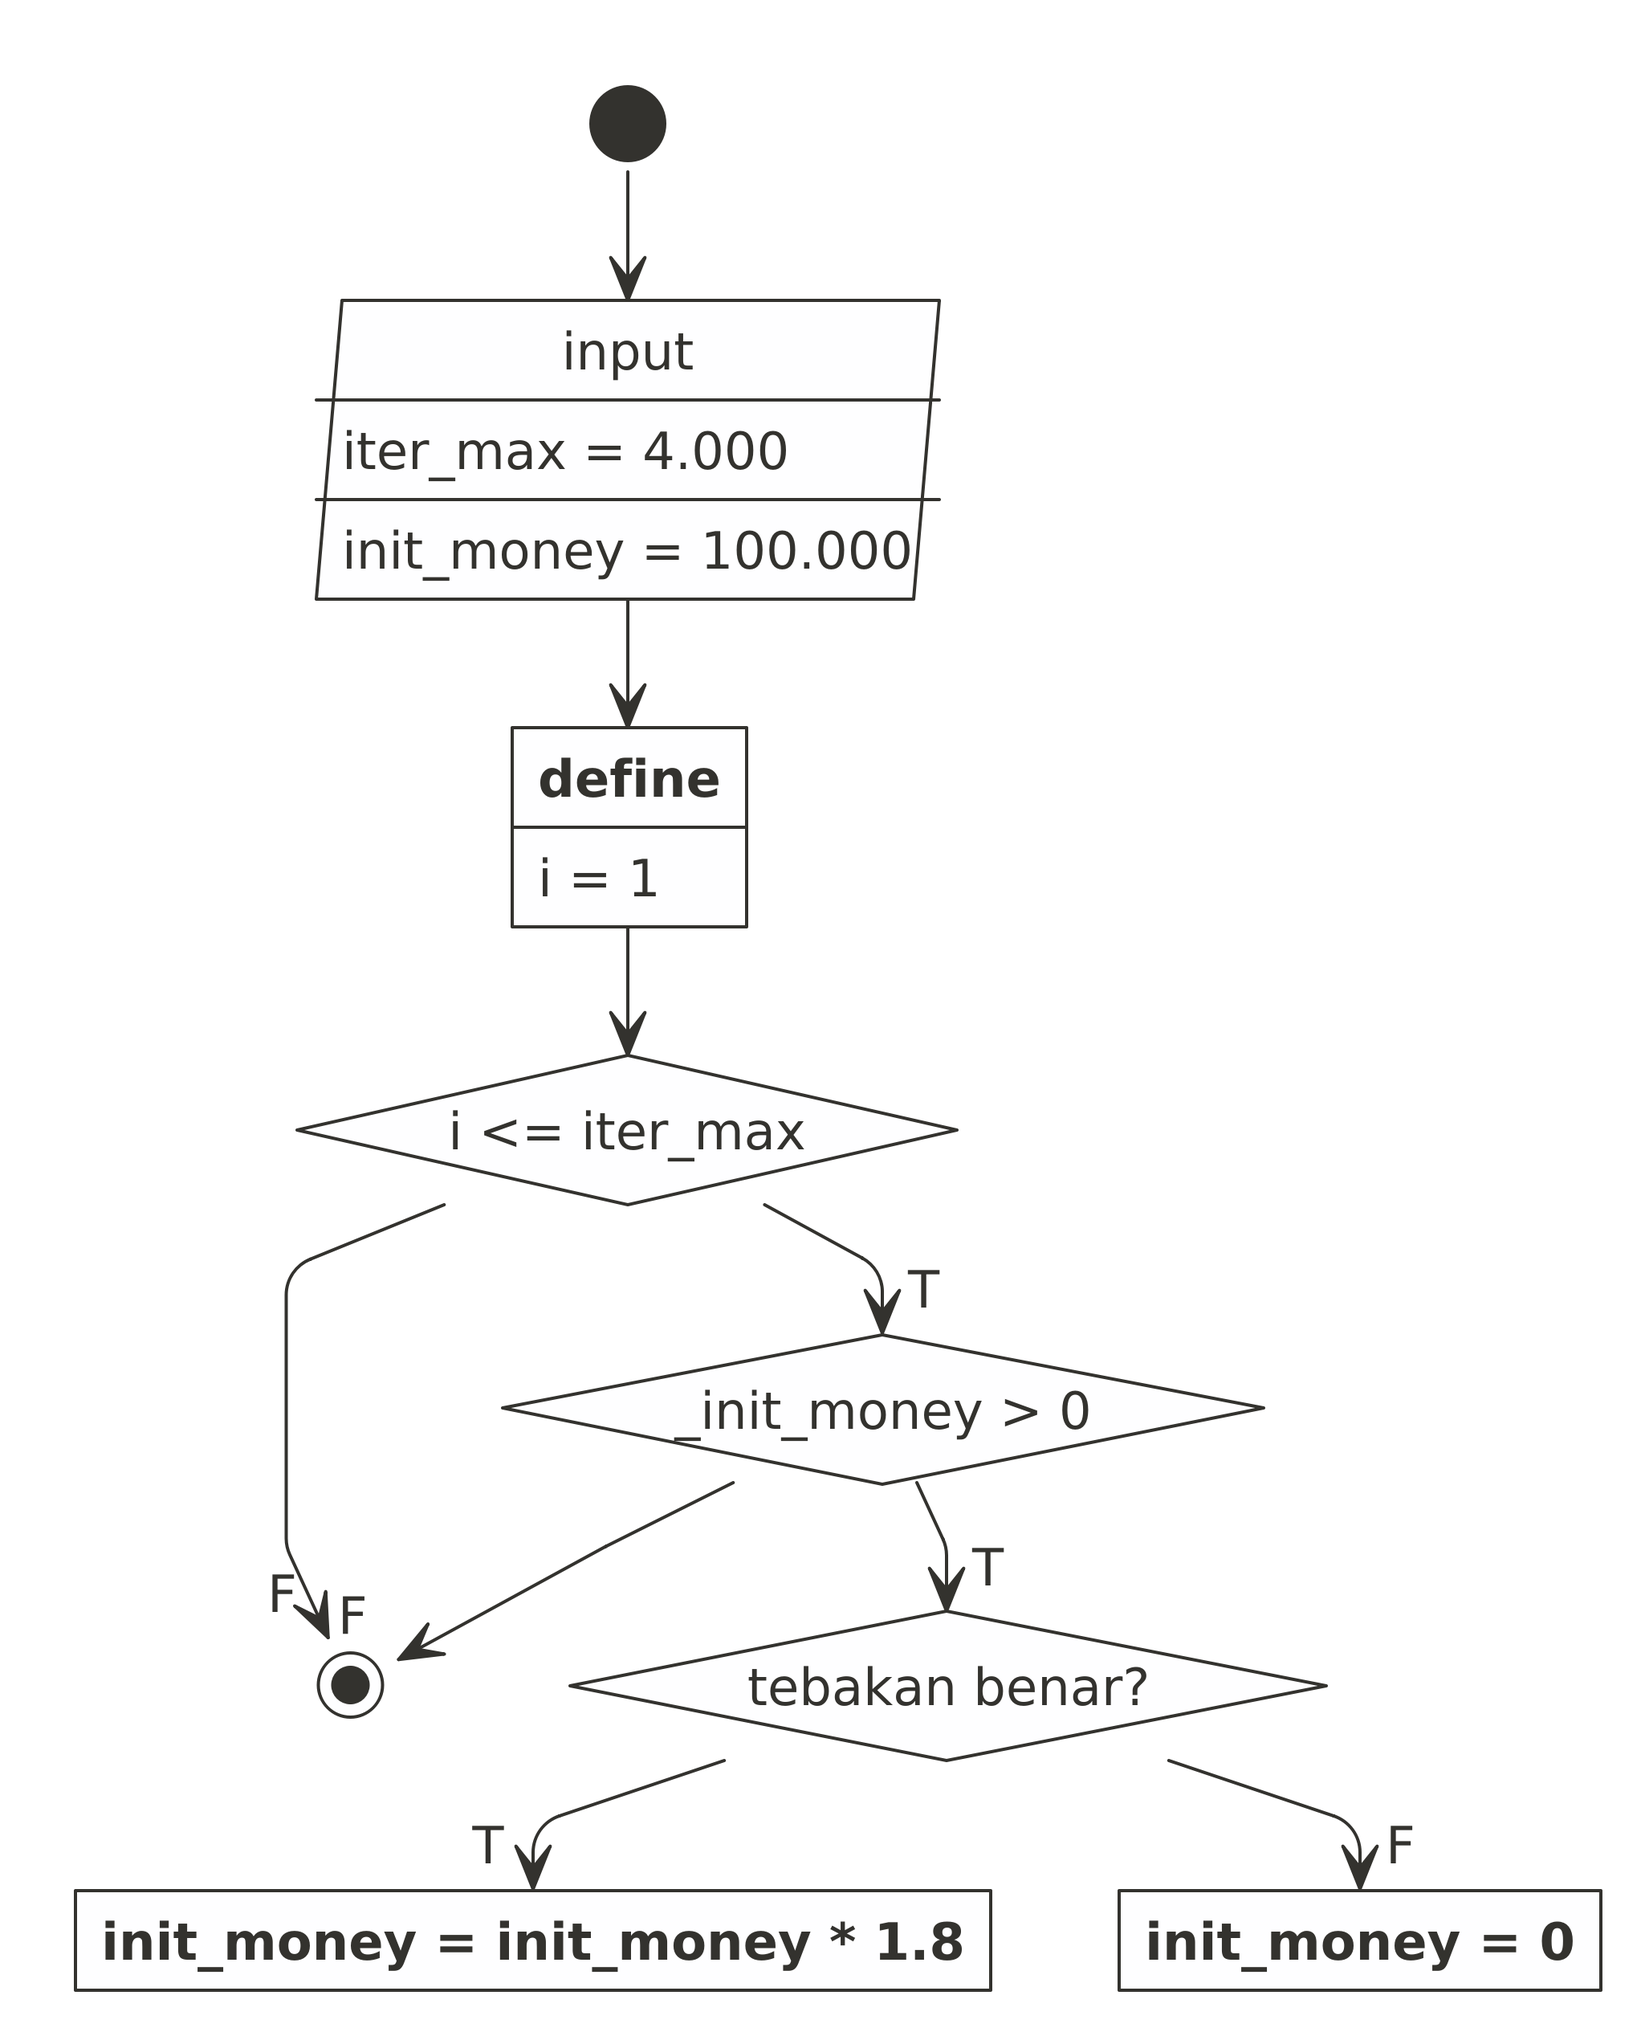
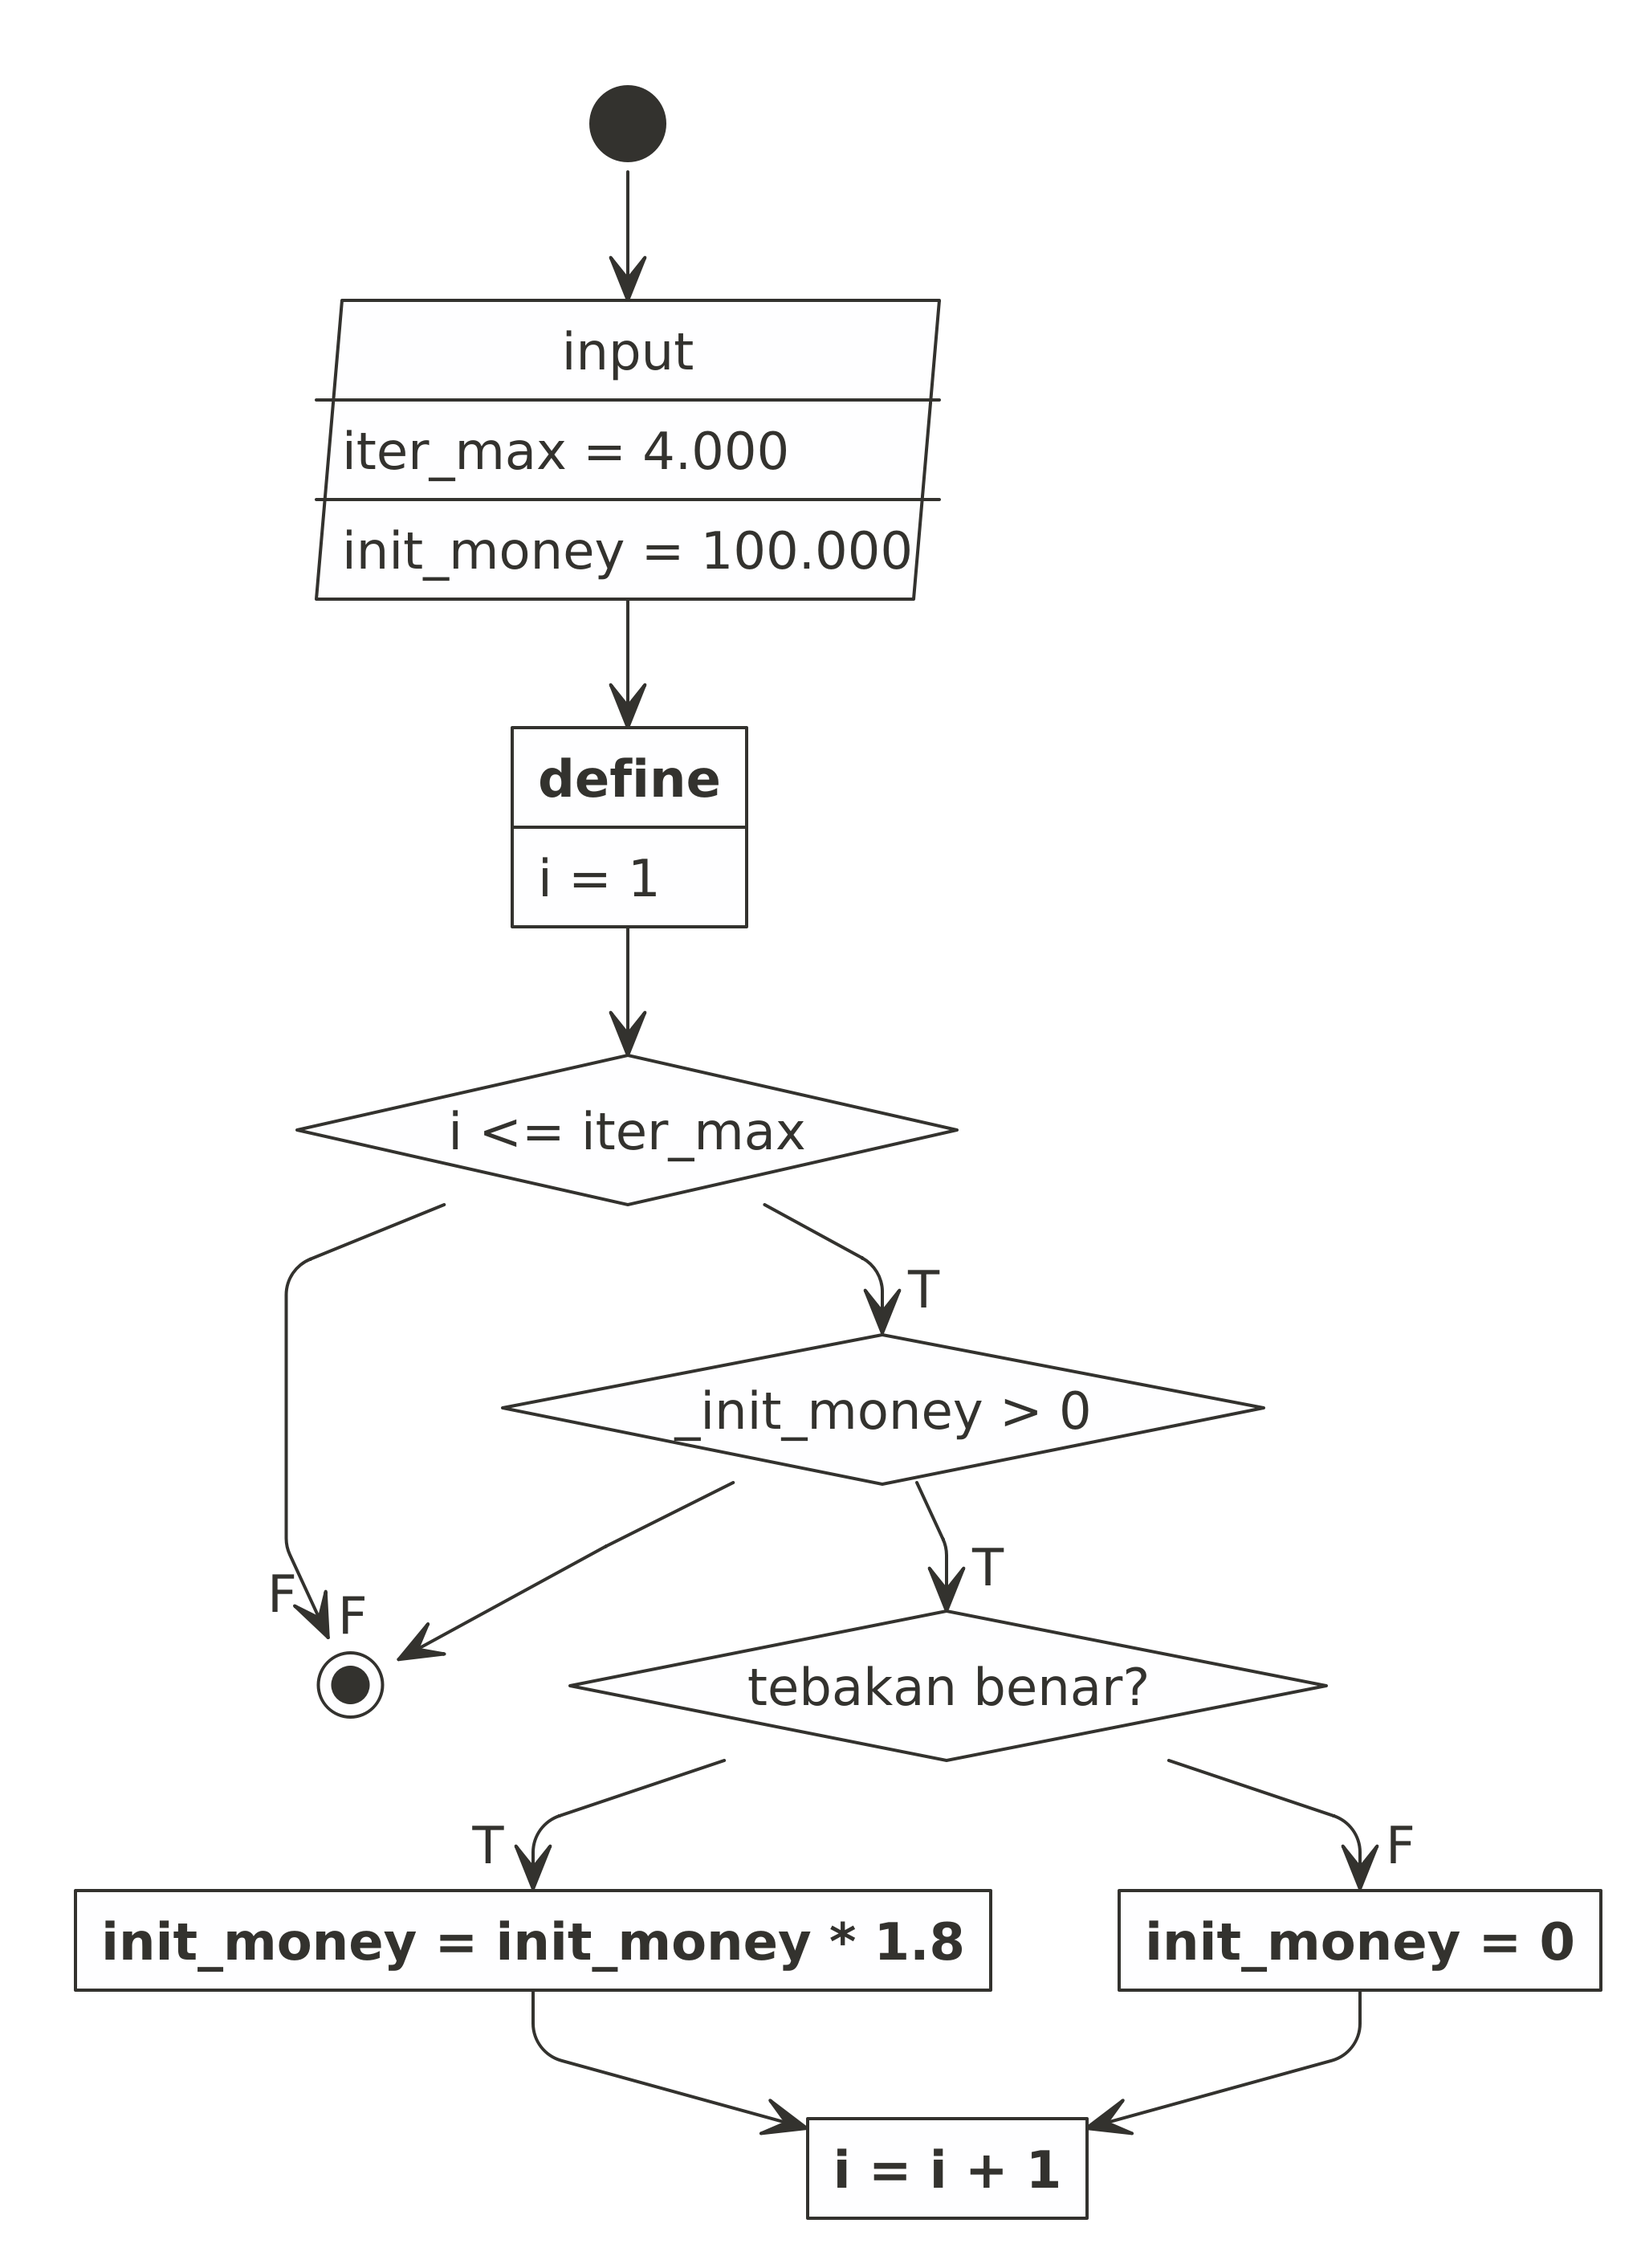
updates

diff --git a/_posts/Monte Carlo/binomo/2022-02-01-bin-omo.md b/_posts/Monte Carlo/binomo/2022-02-01-bin-omo.md
@@ -58,7 +58,7 @@ yang bisa kita dapatkan dari **Binomo** ?
 
 *Flowchart* simulasinya adalah sebagai berikut:
 
-<img src="https://raw.githubusercontent.com/ikanx101/ikanx101.github.io/master/_posts/Monte%20Carlo/binomo/post_files/figure-gfm/unnamed-chunk-1-1.png" width="50%" style="display: block; margin: auto;" />
+<img src="https://raw.githubusercontent.com/ikanx101/ikanx101.github.io/master/_posts/Monte%20Carlo/binomo/post_files/figure-gfm/unnamed-chunk-1-1.png" width="35%" style="display: block; margin: auto;" />
 
 <br>
 
@@ -85,6 +85,19 @@ Lantas berapa peluangnya kita bisa mencapai Rp 64.27 juta?
 Ternyata dari `4.000` kali simulasi, hanya sekali saja simulasi bisa
 mencapai nilai tersebut. Dan perlu saya ingatkan sekali lagi, setelah
 mencapai nilai tersebut pada saat *bid* selanjutnya uang kita hangus!
+
+Sekarang saya akan tunjukkan pada langkah *bid* ke berapa uang kita
+sudah hangus:
+
+<img src="https://raw.githubusercontent.com/ikanx101/ikanx101.github.io/master/_posts/Monte%20Carlo/binomo/post_files/figure-gfm/unnamed-chunk-3-1.png" width="672" style="display: block; margin: auto;" />
+
+<br>
+
+Hampir separuh simulasi (`> 2000 kali kejadian`) memperlihatkan uang
+*user* selalu habis pada *bid* kedua! Artinya boro-boro mau untung, baru
+mulai saja sudah *zonk*.
+
+*Yakin masih mau kayak gini?*
 
 ## **Kesimpulan**
 
